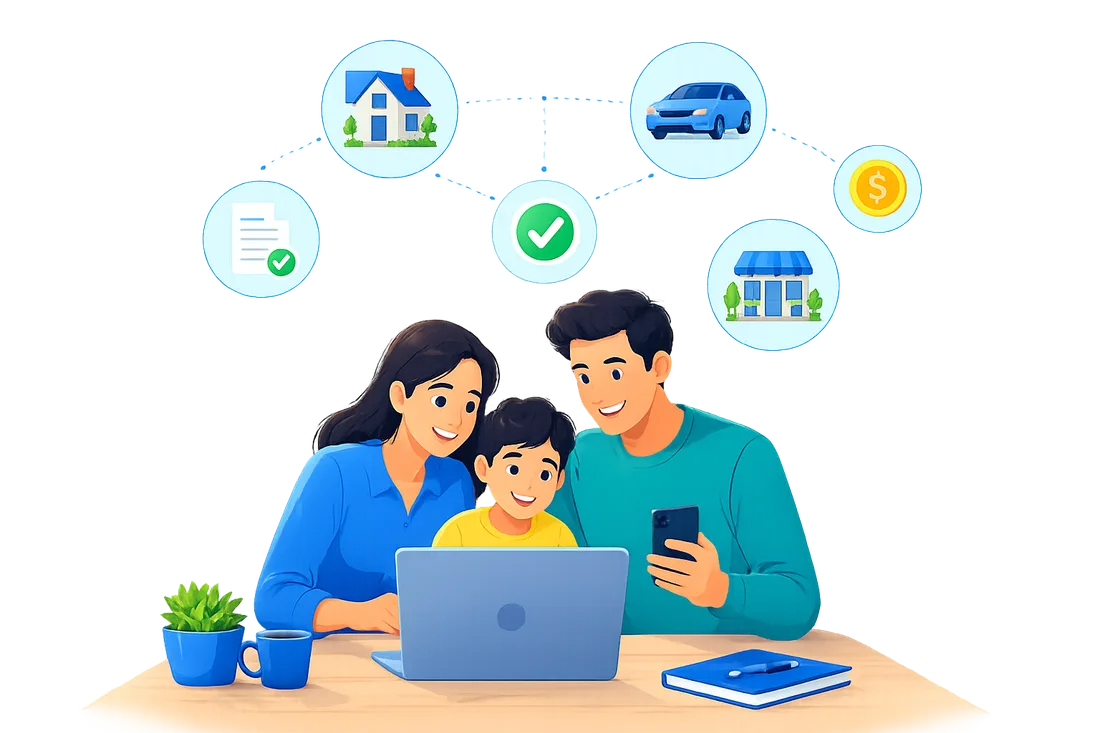
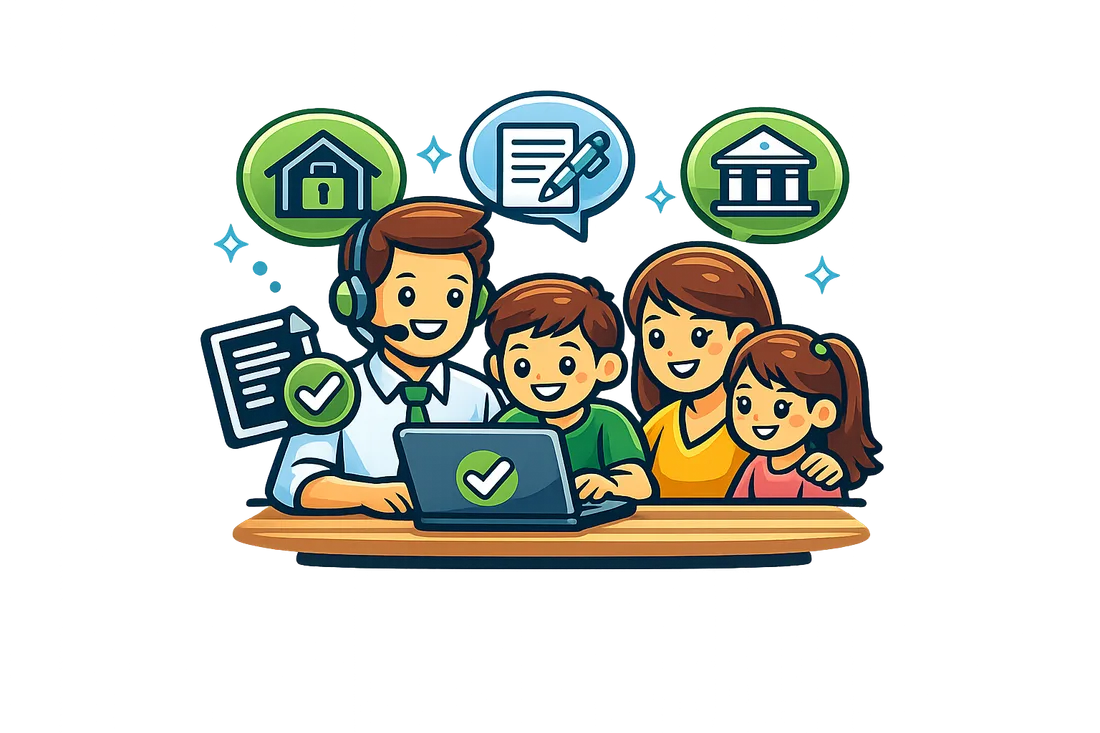
Cambiar la ilustracion del hero por la version nueva
El trazo coincide ahora con el de la ilustracion del asesor, asi que la
home y contacto se leen como un mismo sistema y no como dos piezas de
origenes distintos.

Y ajusta mejor al mensaje: se ve a un asesor acompanando a una familia,
que es exactamente lo que promete el parrafo de al lado ("deja que un
asesor te lleve de la mano"). La anterior mostraba solo a la familia.

Se actualiza el texto alternativo, que describia otra escena.

2.4 MB a 149 KB en webp.

diff --git a/src/components/home/Hero.tsx b/src/components/home/Hero.tsx
@@ -106,7 +106,7 @@ export function Hero() {
         <div className="relative mx-auto w-full max-w-lg lg:max-w-none">
           <Image
             src={familyImg}
-            alt="Una familia comparando opciones de crédito desde su casa"
+            alt="Un asesor de Credifácil acompañando a una familia a elegir su crédito"
             priority
             sizes="(min-width: 1024px) 45vw, 90vw"
             className="w-full [filter:drop-shadow(0_18px_28px_rgba(15,20,45,0.45))]"
